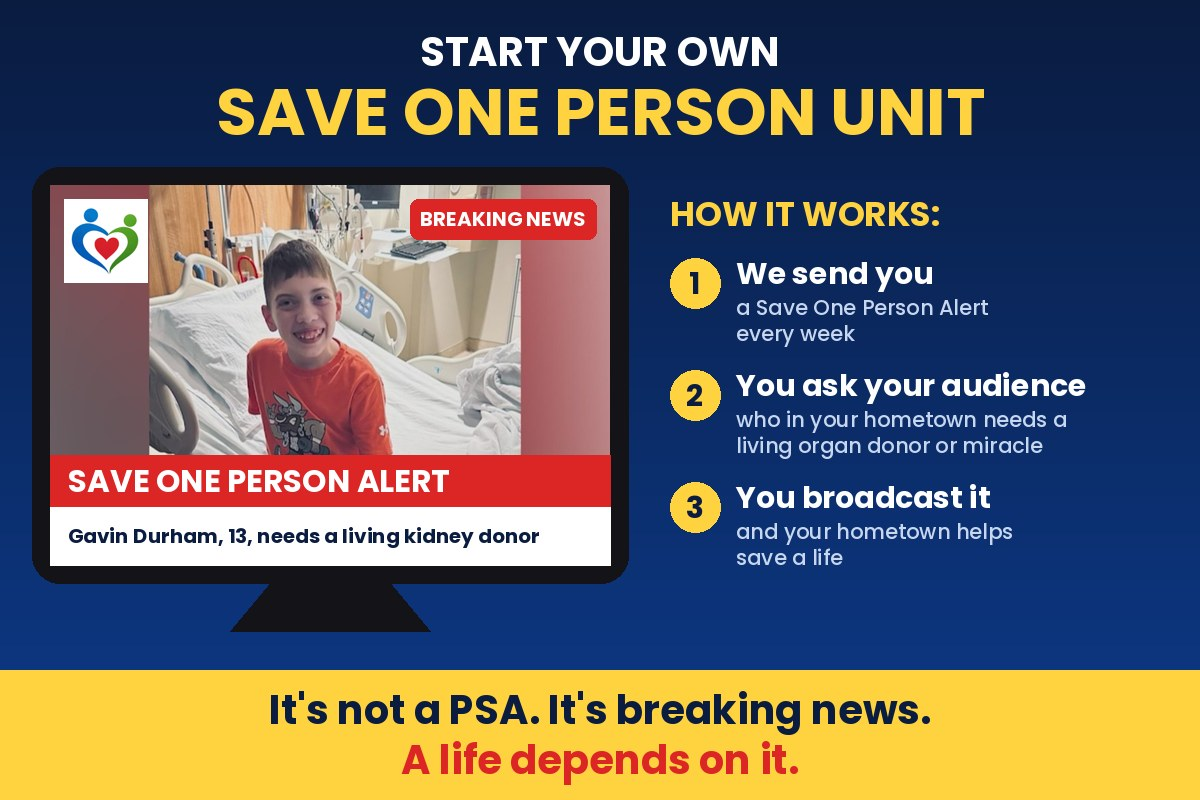
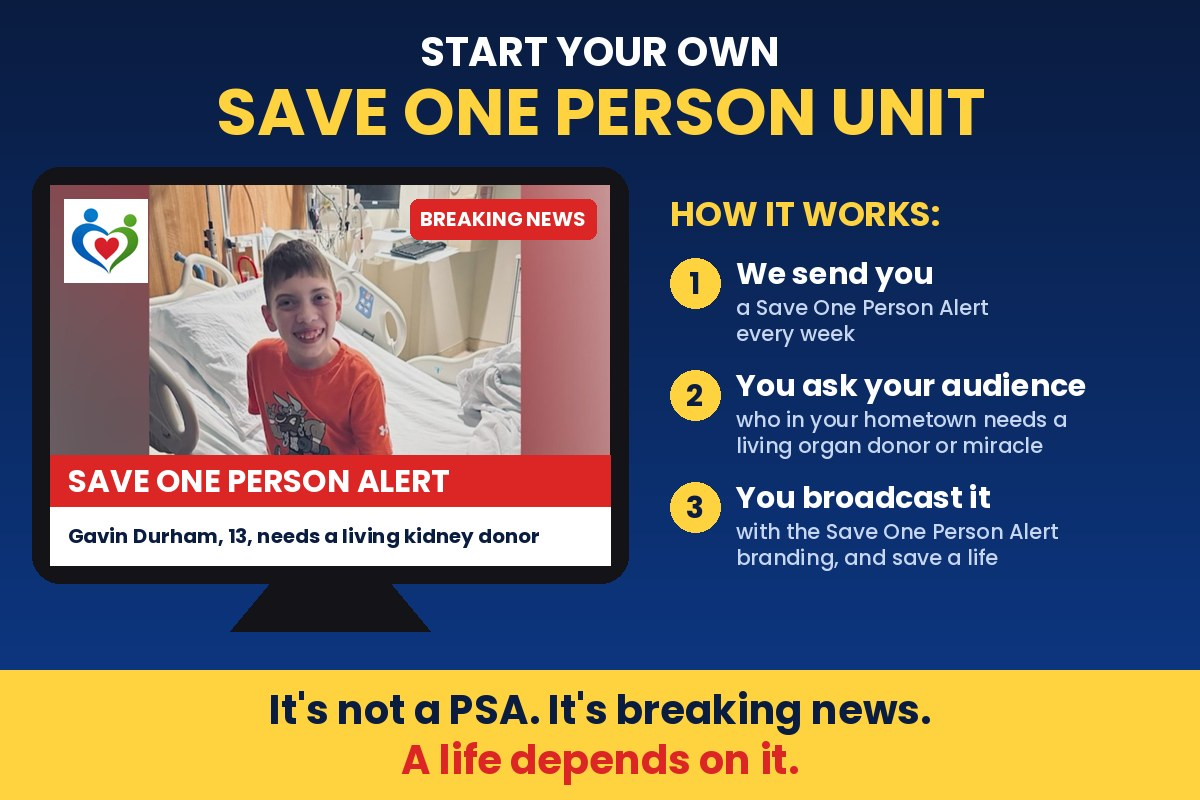
Unit graphic: broadcast with Save One Person Alert branding
Claude-Session: https://claude.ai/code/session_01QWtLC1jh74KzskpCtZbWrn

Changed region(s): [[0.6167, 0.6562, 0.8942, 0.7188]]

diff --git a/ops/email/2026-11-30-save-one-alert-gavin.html b/ops/email/2026-11-30-save-one-alert-gavin.html
@@ -19,7 +19,7 @@
     <div style="font-size:24px;font-weight:bold;margin-top:24px;">Please share Gavin's story with your audience.</div>
   </td></tr>
 
-  <tr><td style="padding:0;"><a href="mailto:save1person1@gmail.com?subject=Yes%2C%20we%20want%20a%20Save%20One%20Person%20unit"><img src="https://www.saveonepersonnow.org/images/newsletter/nl-unit.jpg" width="1000" alt="Start your own Save One Person unit. 1. We send you a Save One Person Alert every week. 2. You ask your audience who in your hometown needs a living organ donor or a medical miracle. 3. You broadcast it, and your hometown helps save a life. It's not a PSA. It's breaking news. A life depends on it." style="display:block;width:100%;height:auto;border:0;"></a></td></tr>
+  <tr><td style="padding:0;"><a href="mailto:save1person1@gmail.com?subject=Yes%2C%20we%20want%20a%20Save%20One%20Person%20unit"><img src="https://www.saveonepersonnow.org/images/newsletter/nl-unit.jpg" width="1000" alt="Start your own Save One Person unit. 1. We send you a Save One Person Alert every week. 2. You ask your audience who in your hometown needs a living organ donor or a medical miracle. 3. You broadcast it with the Save One Person Alert branding, and save a life. It's not a PSA. It's breaking news. A life depends on it." style="display:block;width:100%;height:auto;border:0;"></a></td></tr>
   <tr><td align="center" style="padding:26px 30px 34px;background:#0a1c40;">
     <a href="mailto:save1person1@gmail.com?subject=Yes%2C%20we%20want%20a%20Save%20One%20Person%20unit" style="display:inline-block;background:#ffd23f;color:#0a1c40;text-decoration:none;font-weight:bold;font-size:28px;padding:20px 44px;border-radius:999px;">Yes, I want a Save One Person unit</a>
   </td></tr>
